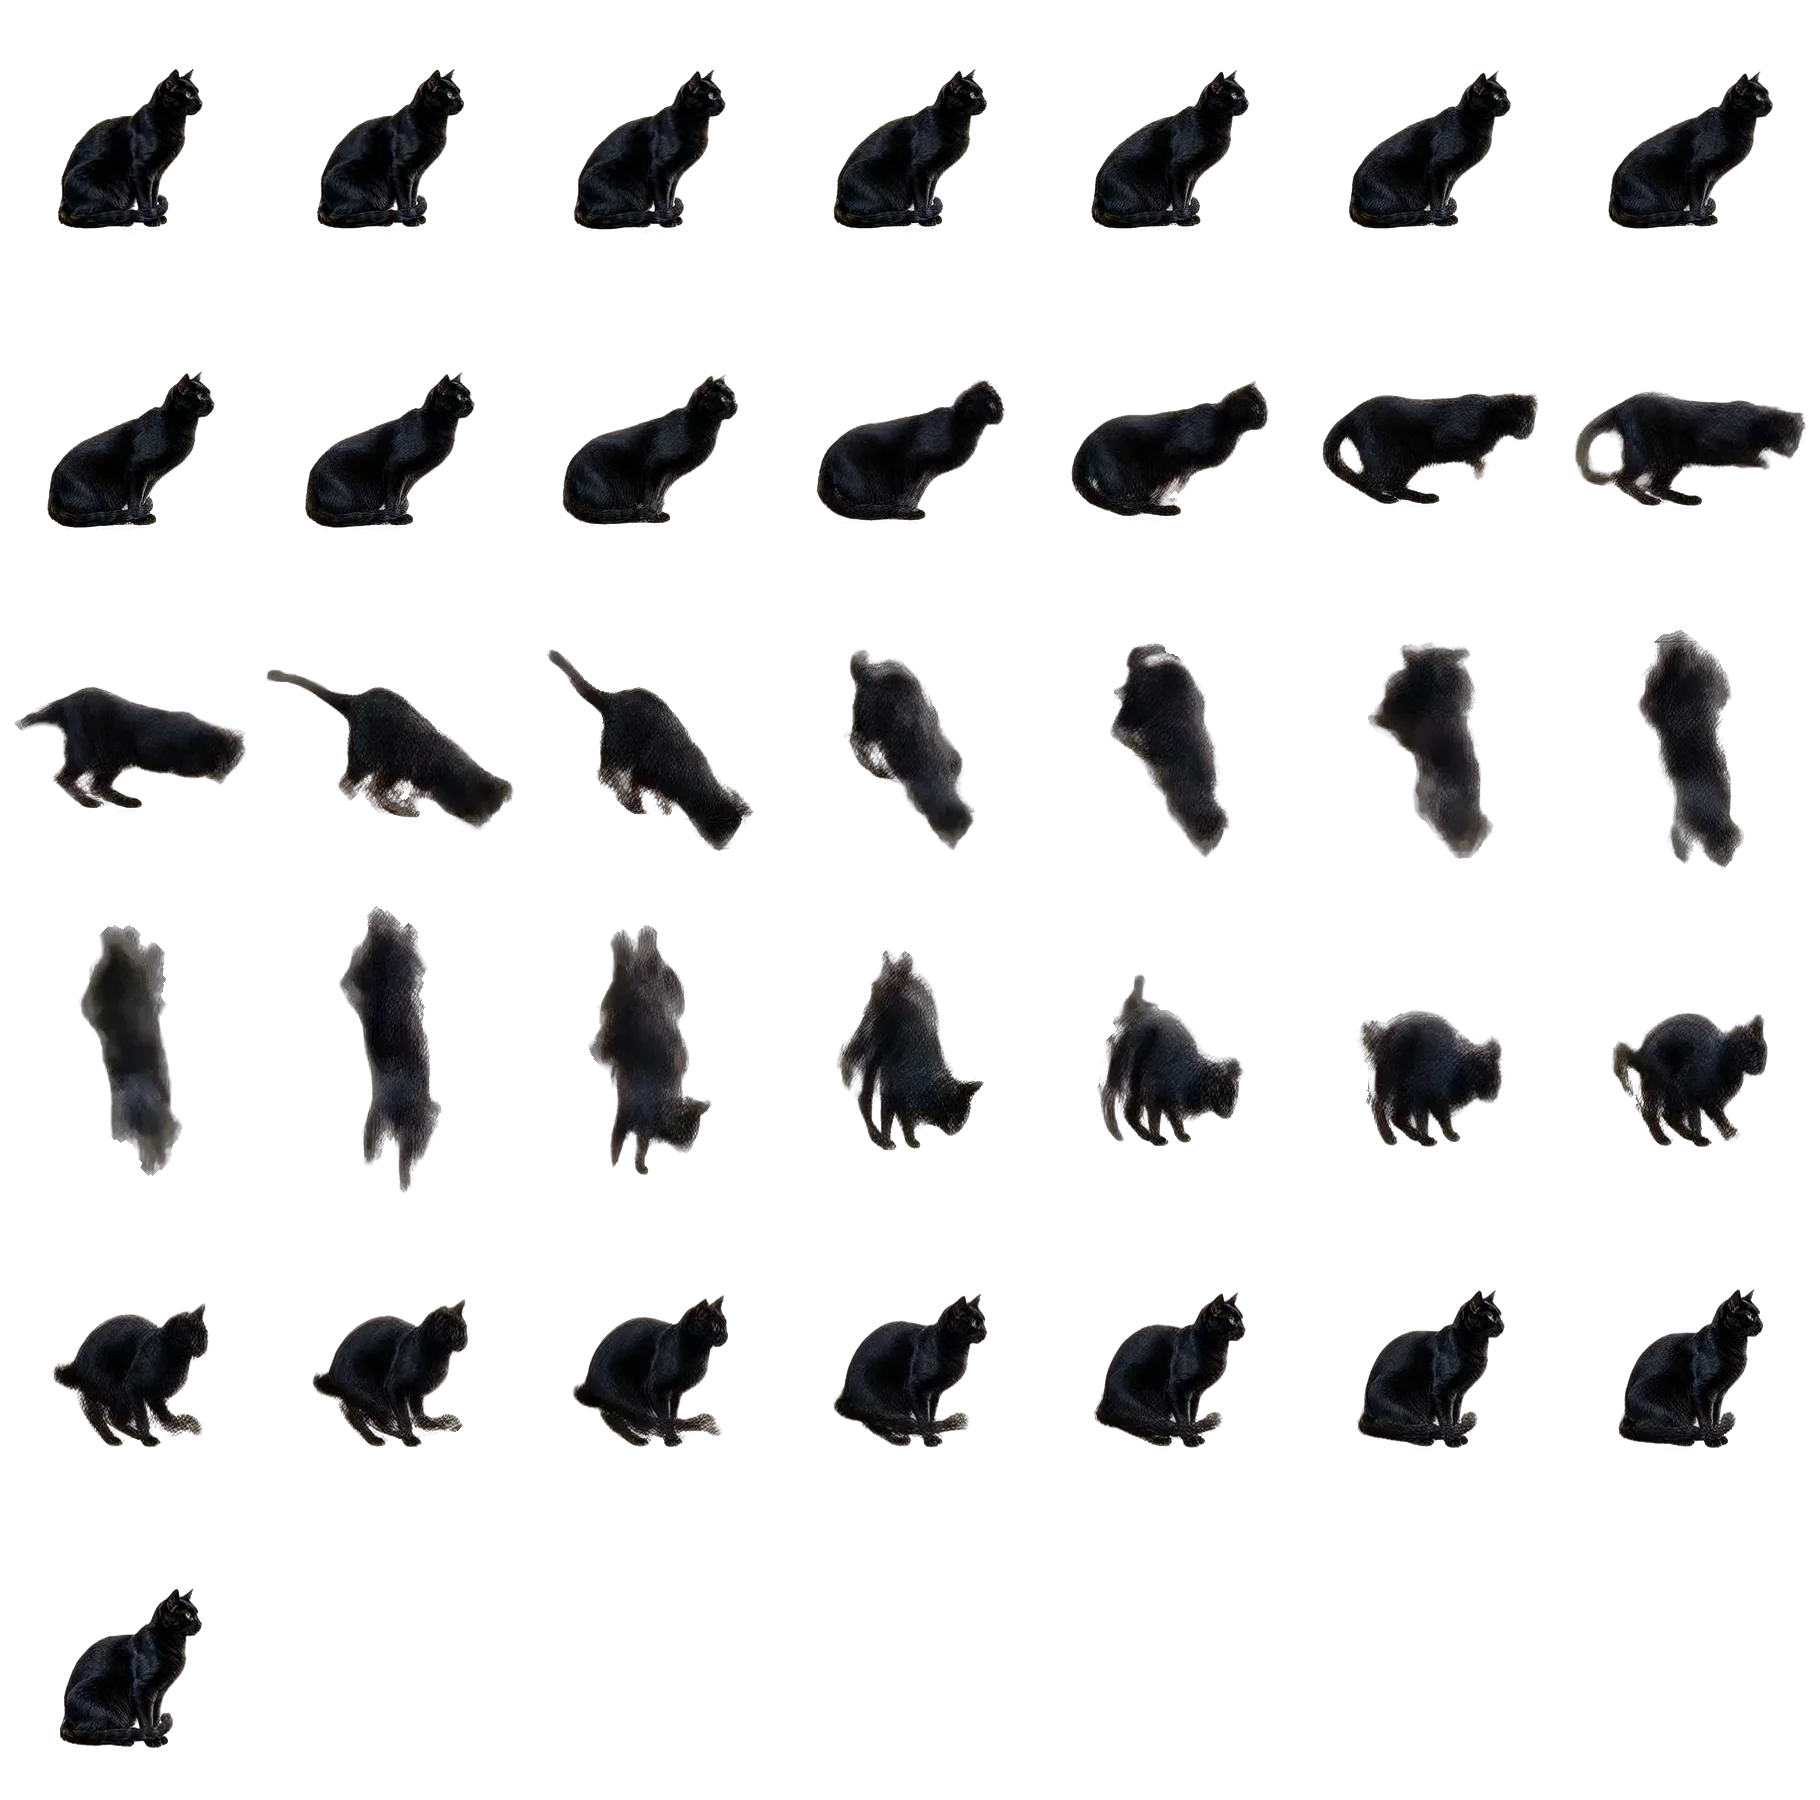
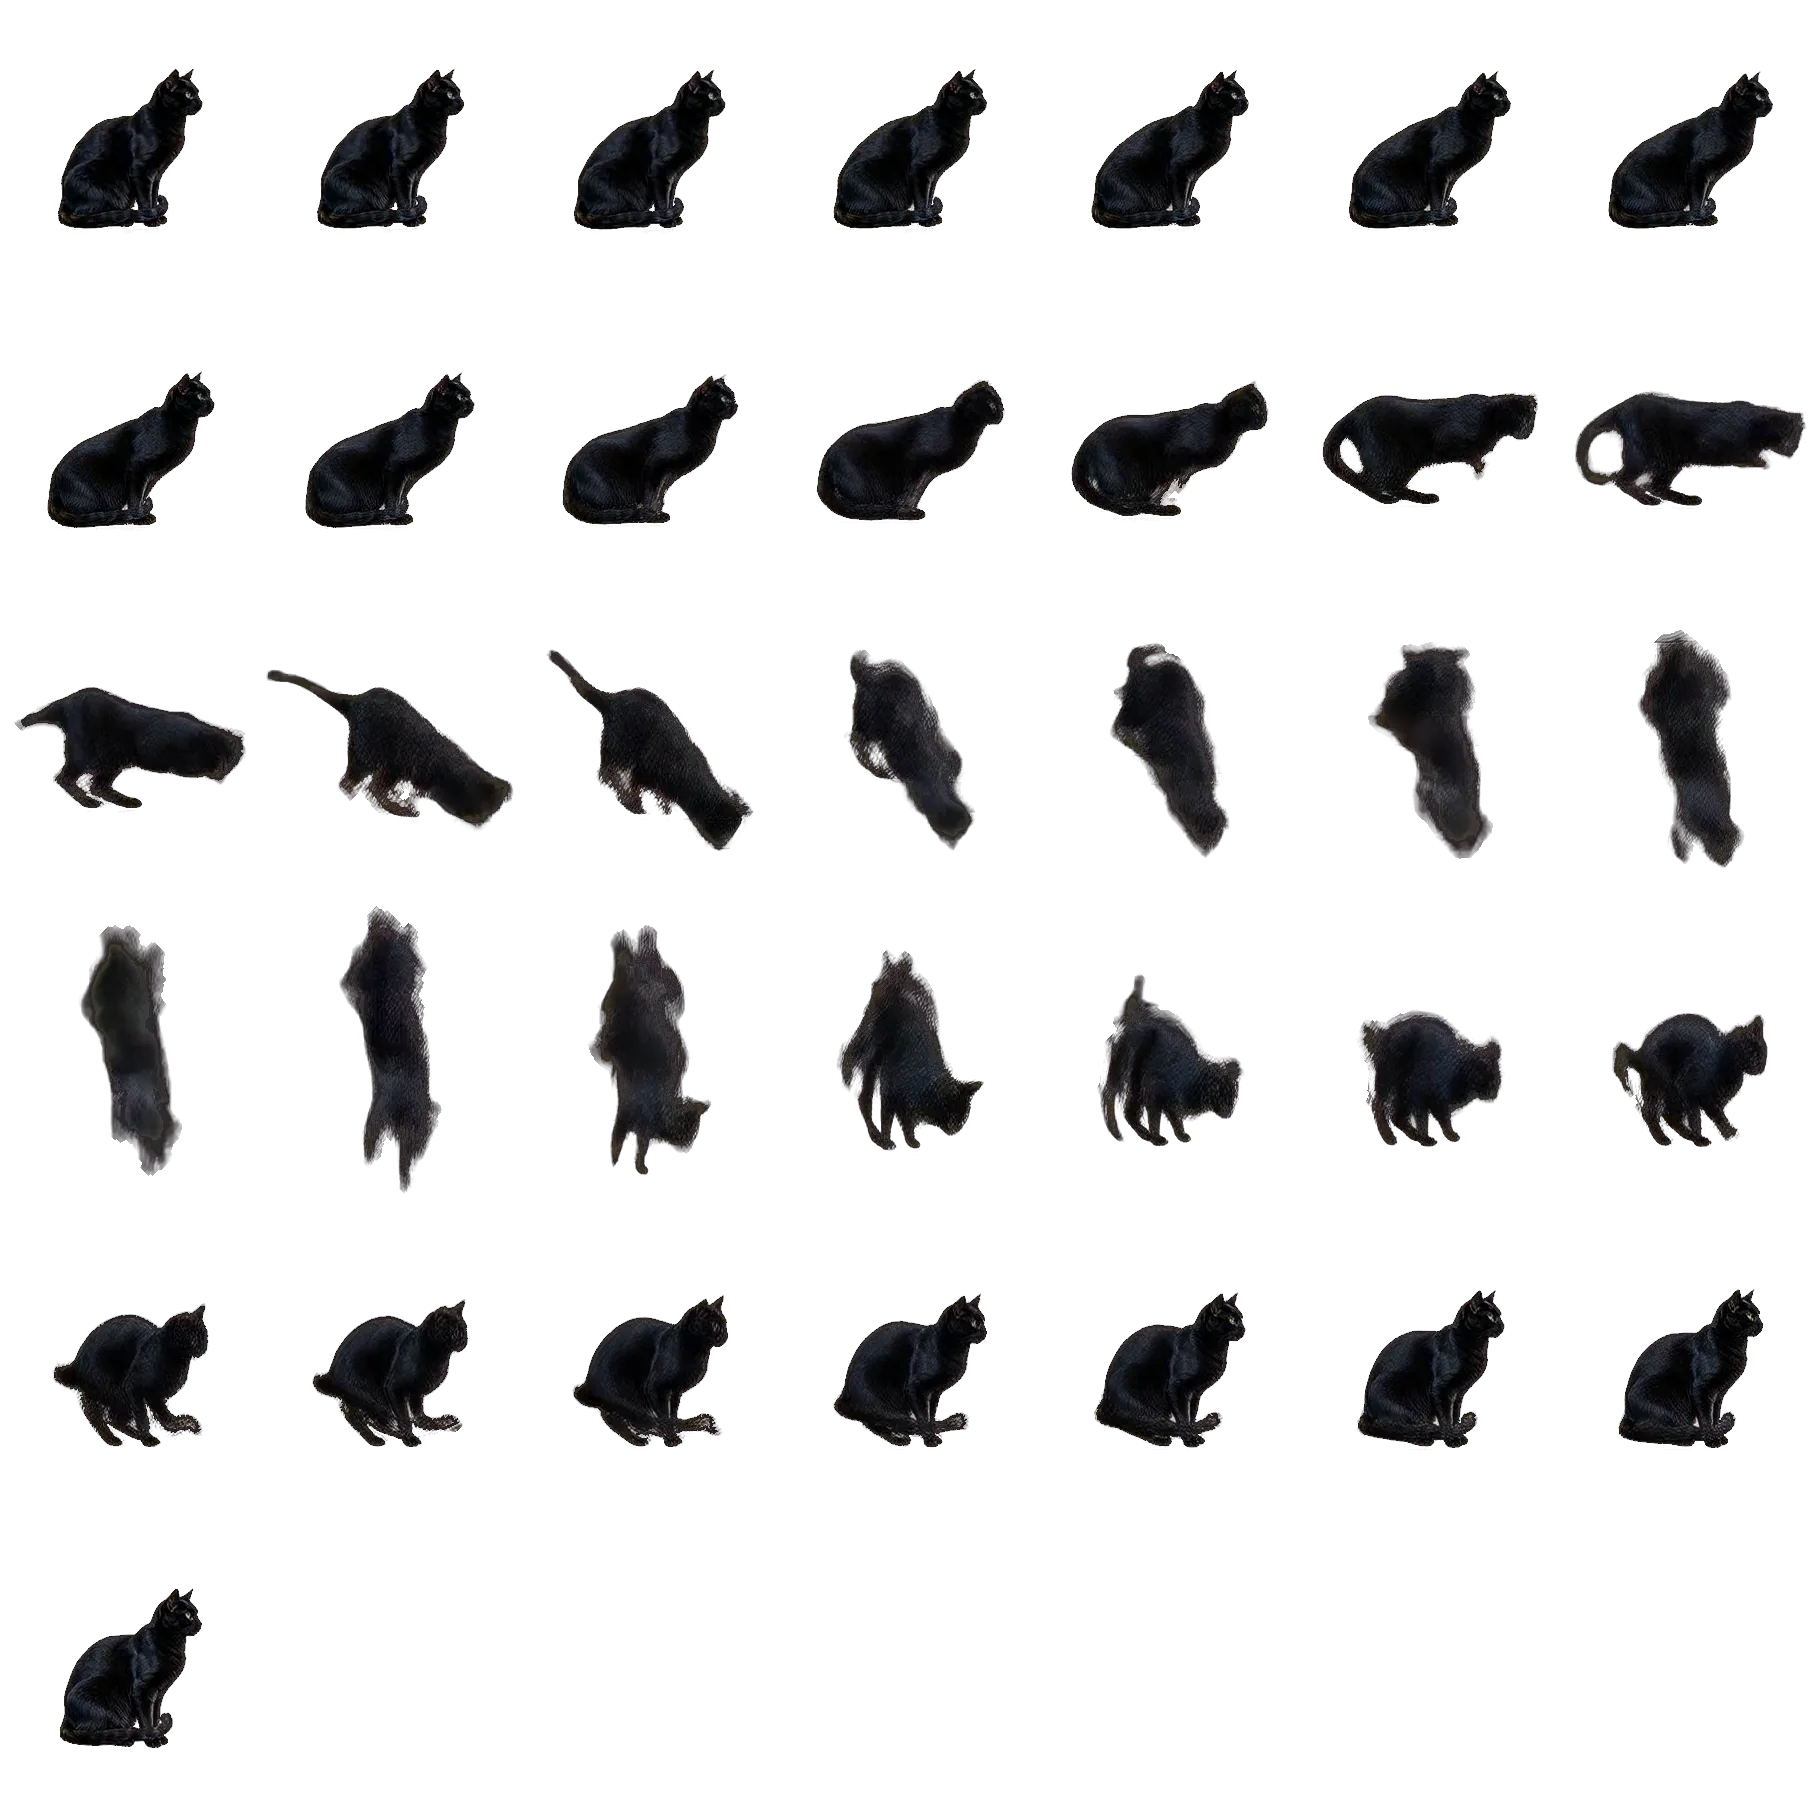
Cat: no pale rim on the mid-leap frames
Mid-air the generated clip is a smear of motion, and the pixels just inside the cat's
outline are part paper. Filled solid they showed as a pale rim once the cat was in a dark
room. For the jump clips those pixels now have the paper taken out, and are plain dark
fur where they were half paper or more. Only the two jump sheets change.

Claude-Session: https://claude.ai/code/session_01CJJLq1kNYut9GAz9vTNtym

diff --git a/tools/art/catmatte.py b/tools/art/catmatte.py
@@ -6,7 +6,7 @@ FUR = np.array([0.07, 0.06, 0.07], np.float32)        # BGR of the darkest fur
 CREAM = np.array([223, 236, 244], np.float32) / 255     # BGR of the paper in the original illustration
 
 
-def matte(bgr, bg=None, solid_thr=0.5):
+def matte(bgr, bg=None, solid_thr=0.5, ring=False):
     """bgr float image in 0..1 -> (alpha, clean foreground colour, background colour).
     The cat is dark on a light, even background, so alpha is how far a pixel has moved from the
     background towards dark fur; the inside of the cat (eyes, nose, sheen) is then filled solid."""
@@ -53,6 +53,15 @@ def matte(bgr, bg=None, solid_thr=0.5):
         sfg = dark * (1 - k) + sfg * k
         alpha = alpha * (1 - w) + soft * w
         fg = fg * (1 - w) + sfg * w
+    if ring:
+        # Just inside the outline the fur is mixed with paper (the more so in a smeared frame), which shows as a pale
+        # rim once the cat is in a dark room. Take the paper out of those pixels; where it was half paper, make it plain fur.
+        depth = ndi.distance_transform_edt(body)
+        band = body & (depth <= 3 + 12 * w) & (a < 0.9)
+        cov = np.clip(a, 0.2, 1)[..., None]
+        own = np.clip((bgr - (1 - cov) * bg) / cov, 0, 1)
+        k = np.clip((a - 0.5) / 0.4, 0, 1)[..., None]
+        fg = np.where(band[..., None], FUR * 1.6 * (1 - k) + own * k, fg)
     return alpha, fg.astype(np.float32), bg
 
 

diff --git a/tools/art/cat_sprites.py b/tools/art/cat_sprites.py
@@ -182,7 +182,7 @@ for name, c in cfg.items():
         frames = frames[c['trim'][0]:c['trim'][1]]
     if c.get('reverse'):
         frames = frames[::-1]
-    mats = [matte(f) for f in frames]
+    mats = [matte(f, ring=bool(c.get('jump'))) for f in frames]      # leaps: no pale rim (see catmatte)
     extra = {}
     if c.get('gait'):
         al = [m[0] for m in mats]
